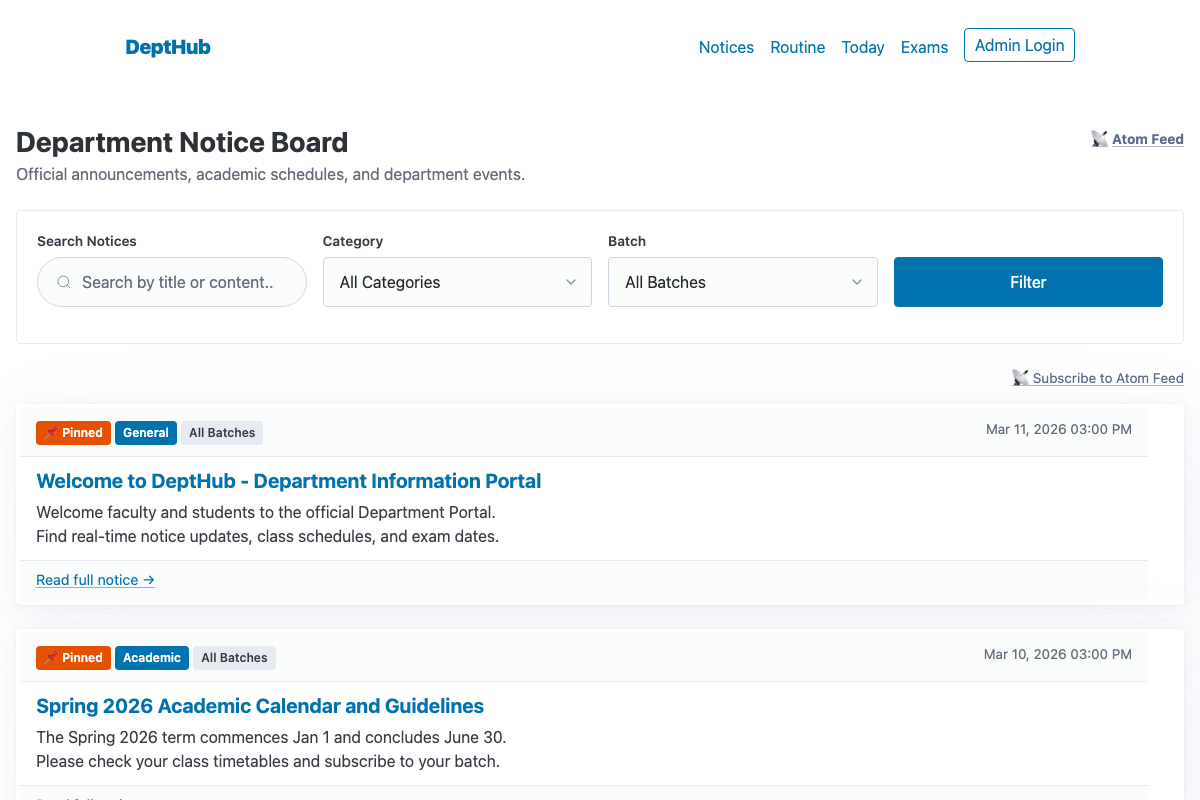
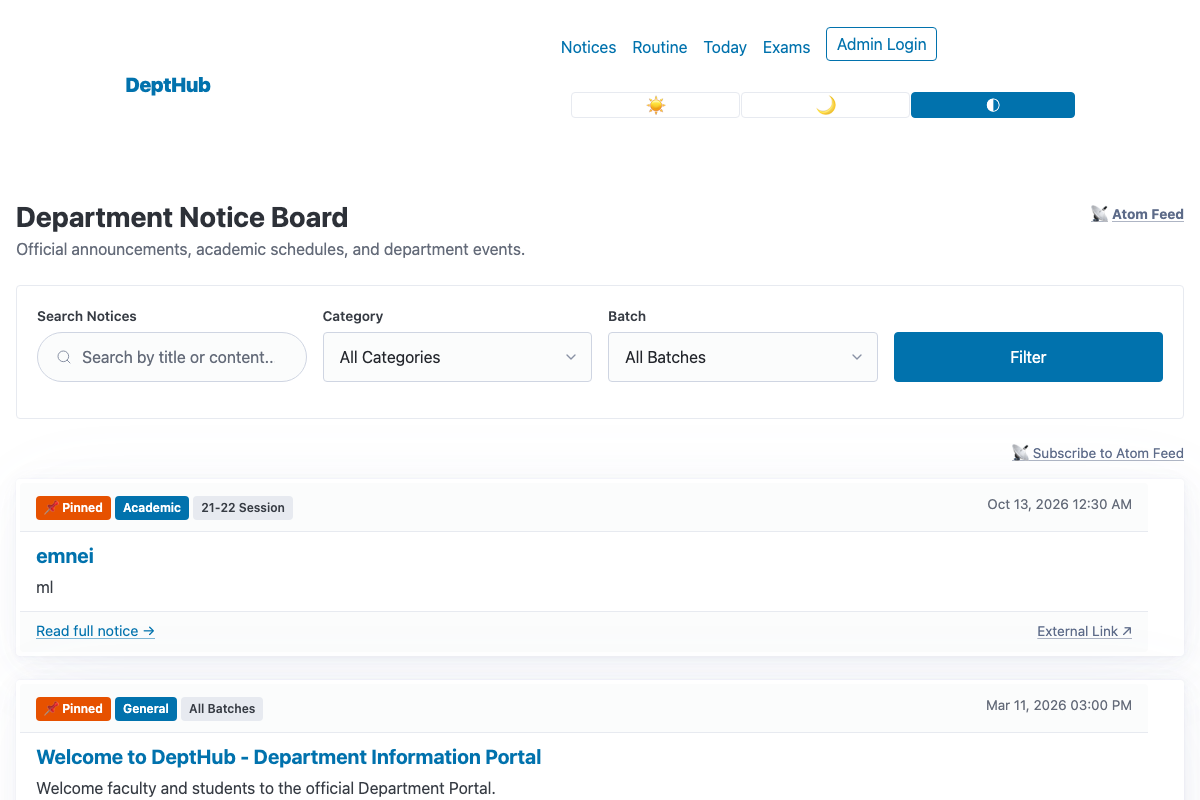
docs: refresh README screenshots with theme toggle, updated notices, and dark mode

diff --git a/scripts/capture_screenshots.py b/scripts/capture_screenshots.py
@@ -1,0 +1,119 @@
+"""Capture updated high-resolution screenshots for README documentation."""
+
+import socket
+import threading
+import time
+import urllib.request
+from contextlib import closing
+from pathlib import Path
+
+import uvicorn
+from playwright.sync_api import sync_playwright
+from sqlmodel import Session
+
+from app.database import engine, init_db
+from app.main import create_app
+from app.seed import seed_database
+
+
+def get_free_port() -> int:
+    with closing(socket.socket(socket.AF_INET, socket.SOCK_STREAM)) as s:
+        s.bind(("127.0.0.1", 0))
+        return s.getsockname()[1]
+
+
+def main():
+    docs_dir = Path("docs")
+    docs_dir.mkdir(exist_ok=True)
+
+    # Ensure DB is seeded
+    init_db()
+    with Session(engine) as session:
+        seed_database(session)
+
+    port = get_free_port()
+    config = uvicorn.Config(
+        create_app(), host="127.0.0.1", port=port, log_level="error"
+    )
+    server = uvicorn.Server(config)
+    t = threading.Thread(target=server.run, daemon=True)
+    t.start()
+
+    base_url = f"http://127.0.0.1:{port}"
+
+    # Wait for server
+    for _ in range(50):
+        try:
+            with urllib.request.urlopen(f"{base_url}/health") as resp:
+                if resp.status == 200:
+                    break
+        except Exception:
+            time.sleep(0.1)
+
+    print(f"Server started at {base_url}")
+
+    with sync_playwright() as p:
+        browser = p.chromium.launch(headless=True)
+
+        # 1. Desktop Screenshots (1200x800)
+        desktop_context = browser.new_context(
+            viewport={"width": 1200, "height": 800},
+            device_scale_factor=1,
+        )
+
+        # Notice Board
+        page = desktop_context.new_page()
+        page.goto(f"{base_url}/")
+        page.wait_for_load_state("networkidle")
+        page.screenshot(path="docs/screenshot_notices.png")
+        print("Captured docs/screenshot_notices.png")
+
+        # Routine
+        page.goto(f"{base_url}/routine")
+        page.wait_for_load_state("networkidle")
+        page.screenshot(path="docs/screenshot_routine.png")
+        print("Captured docs/screenshot_routine.png")
+
+        # Today
+        page.goto(f"{base_url}/today")
+        page.wait_for_load_state("networkidle")
+        page.screenshot(path="docs/screenshot_today.png")
+        print("Captured docs/screenshot_today.png")
+
+        # Exams
+        page.goto(f"{base_url}/exams")
+        page.wait_for_load_state("networkidle")
+        page.screenshot(path="docs/screenshot_exams.png")
+        print("Captured docs/screenshot_exams.png")
+
+        # Dark Mode
+        page.goto(f"{base_url}/theme?set=dark&next=/")
+        page.wait_for_load_state("networkidle")
+        page.screenshot(path="docs/screenshot_dark.png")
+        print("Captured docs/screenshot_dark.png")
+
+        desktop_context.close()
+
+        # 2. Mobile Screenshot (375x750)
+        mobile_context = browser.new_context(
+            viewport={"width": 375, "height": 750},
+            device_scale_factor=1,
+            is_mobile=True,
+            has_touch=True,
+        )
+        mobile_page = mobile_context.new_page()
+        mobile_page.goto(f"{base_url}/")
+        mobile_page.wait_for_load_state("networkidle")
+        mobile_page.screenshot(path="docs/screenshot_mobile.png")
+        print("Captured docs/screenshot_mobile.png")
+
+        mobile_context.close()
+        browser.close()
+
+    server.should_exit = True
+    t.join(timeout=2)
+    print("All screenshots updated successfully!")
+
+
+if __name__ == "__main__":
+    main()

diff --git a/README.md b/README.md
@@ -28,9 +28,9 @@ docker compose exec app python -m app.seed
 | :---: | :---: |
 | ![Today Schedule](docs/screenshot_today.png) | ![Exam Schedule](docs/screenshot_exams.png) |
 
-| Mobile Viewport (375px iPhone SE) |
-| :---: |
-| ![Mobile Viewport](docs/screenshot_mobile.png) |
+| Mobile Viewport (375px iPhone SE) | Dark Theme (One-Click Toggle) |
+| :---: | :---: |
+| ![Mobile Viewport](docs/screenshot_mobile.png) | ![Dark Theme](docs/screenshot_dark.png) |
 
 ---
 
